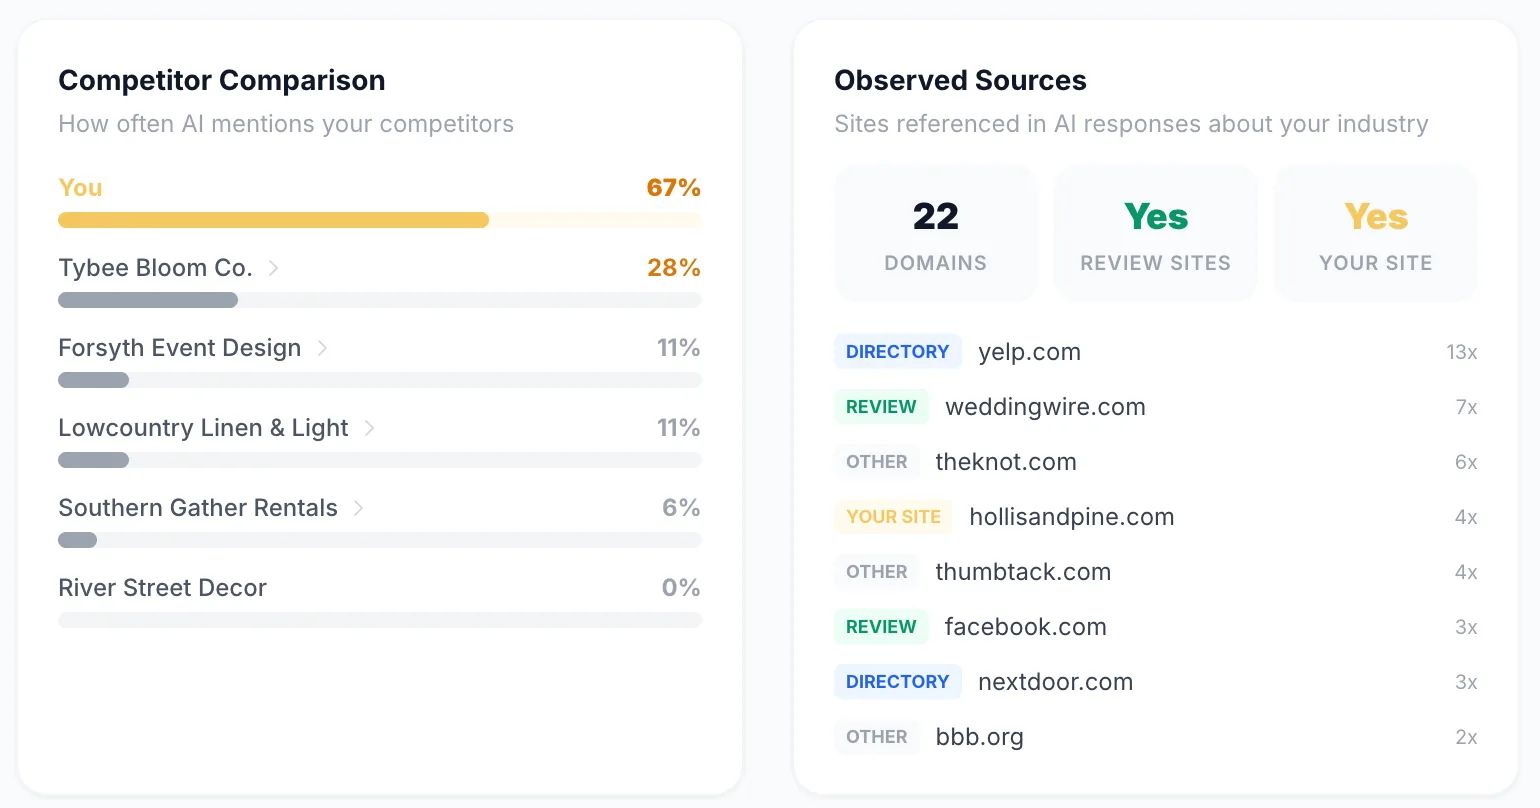
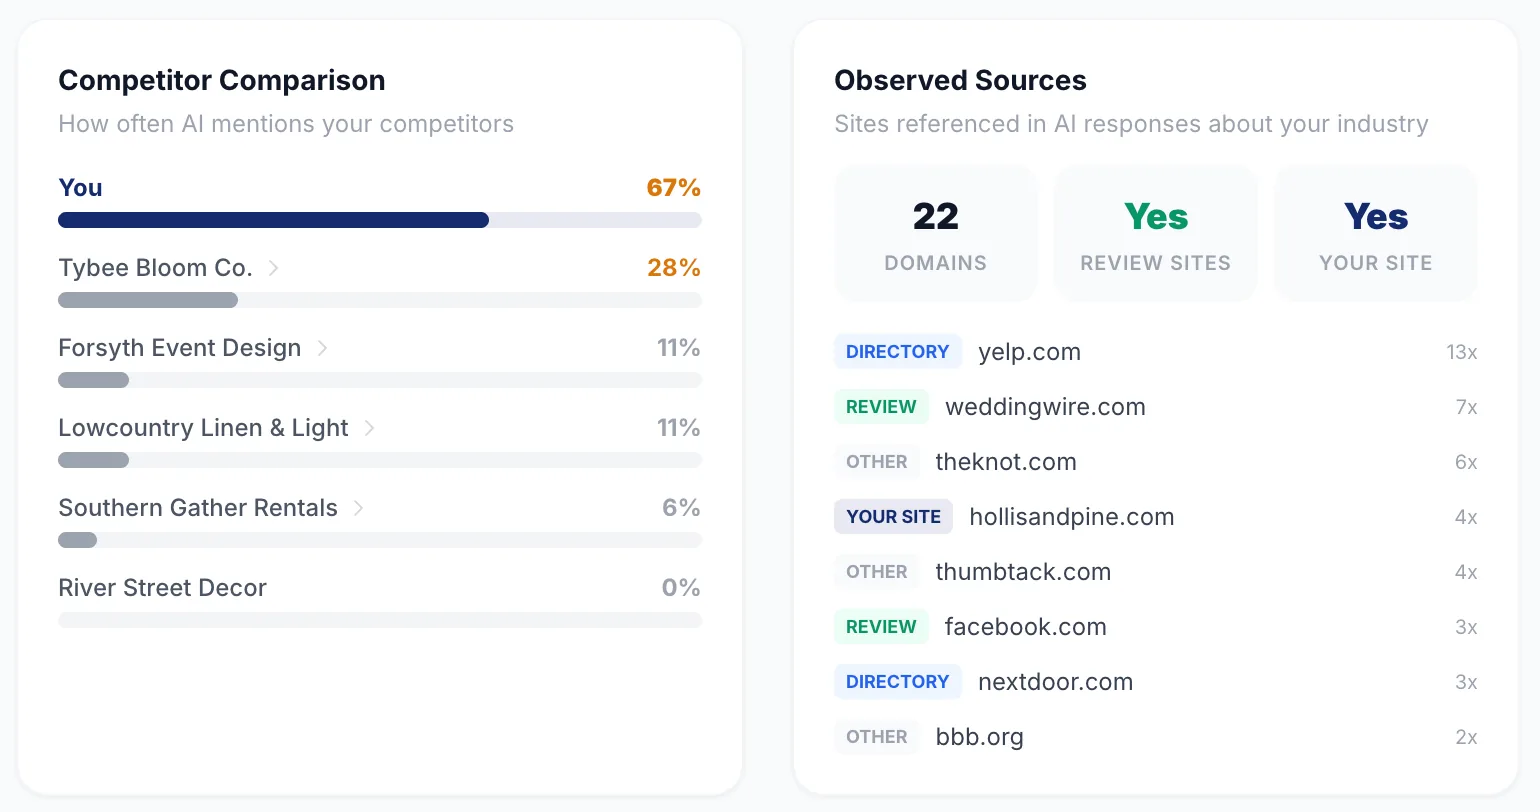
Home: Inside the dashboard becomes a five-feature tour with same-size screenshots
Review requests, reviews and replies, AI visibility, Google results and overview,
each with a short how-it-works blurb and link. All screenshots 2920x1520 in a
fixed frame, recaptured with the new app palette. Feature pages share the images.

Claude-Session: https://claude.ai/code/session_01Xy39hunnq1utVLDeTEy83P

diff --git a/src/raw/index.html b/src/raw/index.html
@@ -246,19 +246,68 @@ height="0" width="0" style="display:none;visibility:hidden"></iframe></noscript>
     <div class="app-demo" data-app-tabs>
       <div class="app-demo-head">
         <span class="eyebrow">Inside the dashboard</span>
-        <h3>And this is where you check on it</h3>
-        <p>Your rating, every review and reply, and where ChatGPT, Gemini and Perplexity name you. Open it whenever you like. The monthly email covers the rest.</p>
+        <h3>Every part of it, one login</h3>
+        <p>Here is what each piece does and what you see when it is running. Pick one to take a look.</p>
       </div>
-      <div class="app-tabs" role="tablist" aria-label="Dashboard screens">
-        <button class="app-tab" type="button" role="tab" id="apt-ov" aria-controls="app-ov" aria-selected="true">Overview</button>
-        <button class="app-tab" type="button" role="tab" id="apt-ai" aria-controls="app-ai" aria-selected="false" tabindex="-1">AI visibility</button>
-        <button class="app-tab" type="button" role="tab" id="apt-rv" aria-controls="app-rv" aria-selected="false" tabindex="-1">Reviews and replies</button>
+      <div class="app-tabs" role="tablist" aria-label="Dashboard features">
+        <button class="app-tab" type="button" role="tab" id="tt-requests" aria-controls="tp-requests" aria-selected="true">Review requests</button>
+        <button class="app-tab" type="button" role="tab" id="tt-reviews" aria-controls="tp-reviews" aria-selected="false" tabindex="-1">Reviews and replies</button>
+        <button class="app-tab" type="button" role="tab" id="tt-ai" aria-controls="tp-ai" aria-selected="false" tabindex="-1">AI visibility</button>
+        <button class="app-tab" type="button" role="tab" id="tt-google" aria-controls="tp-google" aria-selected="false" tabindex="-1">Google results</button>
+        <button class="app-tab" type="button" role="tab" id="tt-overview" aria-controls="tp-overview" aria-selected="false" tabindex="-1">Overview</button>
       </div>
-      <figure class="app-shot">
-        <div role="tabpanel" id="app-ov" aria-labelledby="apt-ov"><div class="app-bar" aria-hidden="true"><i></i><i></i><i></i><span class="app-url">app.vouchtrack.com/dashboard</span></div><img src="/assets/app/dashboard-overview-1400.webp" srcset="/assets/app/dashboard-overview-1400.webp 1400w, /assets/app/dashboard-overview-2200.webp 2200w" sizes="(min-width: 1200px) 1160px, 100vw" width="1400" height="613" alt="VouchTrack dashboard for a sample events business in Savannah: 4.8 star rating, 612 reviews, 98.6% response rate, 1.2 hour average response time" loading="lazy" decoding="async"></div>
-        <div role="tabpanel" id="app-ai" aria-labelledby="apt-ai" hidden><div class="app-bar" aria-hidden="true"><i></i><i></i><i></i><span class="app-url">app.vouchtrack.com/search-ai</span></div><img src="/assets/app/search-ai-1400.webp" srcset="/assets/app/search-ai-1400.webp 1400w, /assets/app/search-ai-2200.webp 2200w" sizes="(min-width: 1200px) 1160px, 100vw" width="1400" height="759" alt="Search AI screen: visibility score 81 out of 100, named in 12 of 18 sampled questions, Gemini 83%, ChatGPT 67%, Perplexity 50%" loading="lazy" decoding="async"></div>
-        <div role="tabpanel" id="app-rv" aria-labelledby="apt-rv" hidden><div class="app-bar" aria-hidden="true"><i></i><i></i><i></i><span class="app-url">app.vouchtrack.com/reviews</span></div><img src="/assets/app/reviews-inbox-1400.webp" srcset="/assets/app/reviews-inbox-1400.webp 1400w, /assets/app/reviews-inbox-2200.webp 2200w" sizes="(min-width: 1200px) 1160px, 100vw" width="1400" height="759" alt="Reviews screen: every review with the reply posted underneath, plus filters for flagged, needs response and negative reviews" loading="lazy" decoding="async"></div>
-      </figure>
+      <div class="tour-stage">
+      <div class="tour-panel" role="tabpanel" id="tp-requests" aria-labelledby="tt-requests">
+        <div class="tour-copy">
+          <span class="eyebrow">Capture experiences</span>
+          <h4>Every customer gets asked</h4>
+          <p>Connect your booking or invoicing tool once. After each visit, a text, email or WhatsApp goes out in your name with a one-tap link to your Google review box.</p>
+          <ul class="checklist"><li>QR codes for the counter and the receipt</li><li>Unhappy customers go to a private feedback flow first</li><li>See which channel brings in the most reviews</li></ul>
+          <a class="tour-link" href="/features/review-requests">How review requests work &rarr;</a>
+        </div>
+        <figure class="app-shot tour-shot"><div class="app-bar" aria-hidden="true"><i></i><i></i><i></i><span class="app-url">app.vouchtrack.com/request-reviews</span></div><img class="tour-img" src="/assets/app/tour-requests-1100.webp" srcset="/assets/app/tour-requests-1100.webp 1100w, /assets/app/tour-requests-1900.webp 1900w" sizes="(min-width: 1100px) 760px, 100vw" width="1100" height="573" alt="Review requests screen for a sample events business: 248 requests sent this month, 121 clicks to review sites, 48.8% success rate and 7 private messages" loading="lazy" decoding="async"></figure>
+      </div>
+      <div class="tour-panel" role="tabpanel" id="tp-reviews" aria-labelledby="tt-reviews" hidden>
+        <div class="tour-copy">
+          <span class="eyebrow">Build authority</span>
+          <h4>One inbox. Every review answered.</h4>
+          <p>Google, Facebook, Yelp and 85+ more sites land in one list. Every reply is AI-drafted, human-approved, and posted within hours.</p>
+          <ul class="checklist"><li>Replies mention what the customer actually wrote</li><li>Filter by site, rating or anything still waiting</li><li>Negative reviews flagged the moment they land</li></ul>
+          <a class="tour-link" href="/features/review-inbox">The review inbox &rarr;</a>
+        </div>
+        <figure class="app-shot tour-shot"><div class="app-bar" aria-hidden="true"><i></i><i></i><i></i><span class="app-url">app.vouchtrack.com/reviews</span></div><img class="tour-img" src="/assets/app/tour-reviews-1100.webp" srcset="/assets/app/tour-reviews-1100.webp 1100w, /assets/app/tour-reviews-1900.webp 1900w" sizes="(min-width: 1100px) 760px, 100vw" width="1100" height="573" alt="Reviews screen: a five-star Google review with the owner’s reply underneath, plus filters for flagged, needs response and negative reviews" loading="lazy" decoding="async"></figure>
+      </div>
+      <div class="tour-panel" role="tabpanel" id="tp-ai" aria-labelledby="tt-ai" hidden>
+        <div class="tour-copy">
+          <span class="eyebrow">Increase visibility</span>
+          <h4>See when AI assistants name you</h4>
+          <p>Every week we ask ChatGPT, Gemini and Perplexity the questions your customers ask, then show how often you get named, who gets named instead, and what to fix first.</p>
+          <ul class="checklist"><li>A score for each assistant</li><li>The competitors named in your place</li><li>A ranked list of what to fix next</li></ul>
+          <a class="tour-link" href="/features/ai-search">AI visibility tracking &rarr;</a>
+        </div>
+        <figure class="app-shot tour-shot"><div class="app-bar" aria-hidden="true"><i></i><i></i><i></i><span class="app-url">app.vouchtrack.com/search-ai</span></div><img class="tour-img" src="/assets/app/tour-ai-1100.webp" srcset="/assets/app/tour-ai-1100.webp 1100w, /assets/app/tour-ai-1900.webp 1900w" sizes="(min-width: 1100px) 760px, 100vw" width="1100" height="573" alt="Search AI screen: visibility score 81 out of 100, named in 12 of 18 sampled questions, Gemini 83%, ChatGPT 67%, Perplexity 50%" loading="lazy" decoding="async"></figure>
+      </div>
+      <div class="tour-panel" role="tabpanel" id="tp-google" aria-labelledby="tt-google" hidden>
+        <div class="tour-copy">
+          <span class="eyebrow">Increase visibility</span>
+          <h4>What your Google profile brings in</h4>
+          <p>Calls, direction requests, website clicks and profile views, pulled from Google every month, plus the exact searches people typed to find you.</p>
+          <ul class="checklist"><li>Brand searches vs. new customers finding you</li><li>Change against last month on every number</li><li>Pairs with the Google Maps rank map</li></ul>
+          <a class="tour-link" href="/features/insights-rankings">Rank tracking and insights &rarr;</a>
+        </div>
+        <figure class="app-shot tour-shot"><div class="app-bar" aria-hidden="true"><i></i><i></i><i></i><span class="app-url">app.vouchtrack.com/dashboard</span></div><img class="tour-img" src="/assets/app/tour-google-1100.webp" srcset="/assets/app/tour-google-1100.webp 1100w, /assets/app/tour-google-1900.webp 1900w" sizes="(min-width: 1100px) 760px, 100vw" width="1100" height="573" alt="Google Business Profile results: 41,820 impressions, 1,186 calls, 2,304 direction requests and 1,472 website clicks, with the top search terms people used" loading="lazy" decoding="async"></figure>
+      </div>
+      <div class="tour-panel" role="tabpanel" id="tp-overview" aria-labelledby="tt-overview" hidden>
+        <div class="tour-copy">
+          <span class="eyebrow">Your dashboard</span>
+          <h4>Everything at a glance</h4>
+          <p>Your rating, review count, response rate and reply speed on one screen. A monthly email sums it all up in two minutes.</p>
+          <ul class="checklist"><li>Every location under one login</li><li>Share it with your team in one click</li><li>Open it when you want. The email covers the rest.</li></ul>
+          <a class="tour-link" href="/how-it-works">How it all fits together &rarr;</a>
+        </div>
+        <figure class="app-shot tour-shot"><div class="app-bar" aria-hidden="true"><i></i><i></i><i></i><span class="app-url">app.vouchtrack.com/dashboard</span></div><img class="tour-img" src="/assets/app/tour-overview-1100.webp" srcset="/assets/app/tour-overview-1100.webp 1100w, /assets/app/tour-overview-1900.webp 1900w" sizes="(min-width: 1100px) 760px, 100vw" width="1100" height="573" alt="Dashboard overview: 4.8 star rating, 612 reviews, 38.4% invite conversion, 98.6% response rate and a 1.2 hour average response time" loading="lazy" decoding="async"></figure>
+      </div>
+      </div>
       <p class="app-note">Sample account. The business, reviewer names and numbers are illustrative.</p>
     </div>
 

diff --git a/src/raw/features/ai-search.html b/src/raw/features/ai-search.html
@@ -88,7 +88,7 @@ height="0" width="0" style="display:none;visibility:hidden"></iframe></noscript>
     </div>
     <div class="app-fig">
       <p class="app-fig-cap"><b>What tracking looks like once you're set up.</b> Every week we ask the assistants the questions your customers ask, then show who got named and how often.</p>
-      <figure class="app-shot"><div class="app-bar" aria-hidden="true"><i></i><i></i><i></i><span class="app-url">app.vouchtrack.com/search-ai</span></div><img src="/assets/app/search-ai-1400.webp" srcset="/assets/app/search-ai-1400.webp 1400w, /assets/app/search-ai-2200.webp 2200w" sizes="(min-width: 1200px) 1160px, 100vw" width="1400" height="759" alt="Search AI screen: visibility score 81 out of 100, named in 12 of 18 sampled questions, Gemini 83%, ChatGPT 67%, Perplexity 50%" loading="lazy" decoding="async"></figure>
+      <figure class="app-shot"><div class="app-bar" aria-hidden="true"><i></i><i></i><i></i><span class="app-url">app.vouchtrack.com/search-ai</span></div><img src="/assets/app/tour-ai-1100.webp" srcset="/assets/app/tour-ai-1100.webp 1100w, /assets/app/tour-ai-1900.webp 1900w" sizes="(min-width: 1200px) 1160px, 100vw" width="1100" height="573" alt="Search AI screen: visibility score 81 out of 100, named in 12 of 18 sampled questions, Gemini 83%, ChatGPT 67%, Perplexity 50%" loading="lazy" decoding="async"></figure>
       <p class="app-note">Sample account. The business, reviewer names and numbers are illustrative.</p>
     </div>
   </div>
@@ -121,7 +121,7 @@ height="0" width="0" style="display:none;visibility:hidden"></iframe></noscript>
         <p>Your dashboard lists the sites ChatGPT, Gemini and Perplexity cite when they answer questions about your trade, and how often they name you next to the competition. That tells you exactly where new reviews will count the most.</p>
       </div>
       <div>
-        <figure class="app-shot app-crop"><img src="/assets/app/search-ai-sources-800.webp" srcset="/assets/app/search-ai-sources-800.webp 800w, /assets/app/search-ai-sources-1540.webp 1540w" sizes="(min-width: 900px) 560px, 100vw" width="800" height="420" alt="How often AI names you next to local competitors, and the sites the assistants cite most for your category, such as Yelp, WeddingWire and The Knot" loading="lazy" decoding="async"></figure>
+        <figure class="app-shot app-crop"><img src="/assets/app/search-ai-sources-800.webp" srcset="/assets/app/search-ai-sources-800.webp 800w, /assets/app/search-ai-sources-1540.webp 1540w" sizes="(min-width: 900px) 560px, 100vw" width="800" height="422" alt="How often AI names you next to local competitors, and the sites the assistants cite most for your category, such as Yelp, WeddingWire and The Knot" loading="lazy" decoding="async"></figure>
         <p class="app-note">Sample account. The business, reviewer names and numbers are illustrative.</p>
       </div>
     </div>

diff --git a/src/raw/features/insights-rankings.html b/src/raw/features/insights-rankings.html
@@ -103,7 +103,7 @@ height="0" width="0" style="display:none;visibility:hidden"></iframe></noscript>
     </div>
     <div class="app-fig">
       <p class="app-fig-cap"><b>The dashboard, if you want it.</b> Rating, review count, response rate and how fast replies go out, plus what your Google profile brought in this month.</p>
-      <figure class="app-shot"><div class="app-bar" aria-hidden="true"><i></i><i></i><i></i><span class="app-url">app.vouchtrack.com/dashboard</span></div><img src="/assets/app/dashboard-overview-1400.webp" srcset="/assets/app/dashboard-overview-1400.webp 1400w, /assets/app/dashboard-overview-2200.webp 2200w" sizes="(min-width: 1200px) 1160px, 100vw" width="1400" height="613" alt="VouchTrack dashboard for a sample events business in Savannah: 4.8 star rating, 612 reviews, 98.6% response rate, 1.2 hour average response time" loading="lazy" decoding="async"></figure>
+      <figure class="app-shot"><div class="app-bar" aria-hidden="true"><i></i><i></i><i></i><span class="app-url">app.vouchtrack.com/dashboard</span></div><img src="/assets/app/tour-overview-1100.webp" srcset="/assets/app/tour-overview-1100.webp 1100w, /assets/app/tour-overview-1900.webp 1900w" sizes="(min-width: 1200px) 1160px, 100vw" width="1100" height="573" alt="VouchTrack dashboard for a sample events business in Savannah: 4.8 star rating, 612 reviews, 98.6% response rate, 1.2 hour average response time" loading="lazy" decoding="async"></figure>
       <figure class="app-shot app-crop" style="margin-top:16px;"><img src="/assets/app/gbp-insights-1100.webp" srcset="/assets/app/gbp-insights-1100.webp 1100w, /assets/app/gbp-insights-2300.webp 2300w" sizes="(min-width: 1200px) 1160px, 100vw" width="1100" height="230" alt="Google Business Profile results for the month: 41,820 impressions, 1,186 calls, 2,304 direction requests and 1,472 website clicks, each up on the period before" loading="lazy" decoding="async"></figure>
       <p class="app-note">Sample account. The business, reviewer names and numbers are illustrative.</p>
     </div>

diff --git a/public/styles.css b/public/styles.css
@@ -1735,3 +1735,25 @@ footer.book-foot { color: #D5DCF0; border-top: 0; }
   .ih-photo { max-width: 560px; }
   .ih-img { aspect-ratio: 16 / 10; }
 }
+
+/* Inside the dashboard: feature tour */
+.app-demo .app-tabs { margin-bottom: 28px; }
+.tour-panel { display: grid; grid-template-columns: minmax(0, 0.85fr) minmax(0, 2fr); gap: 44px; align-items: center; }
+.tour-stage { display: grid; }
+.tour-stage > .tour-panel { grid-area: 1 / 1; }
+.tour-stage > .tour-panel[hidden] { display: grid; visibility: hidden; }
+.tour-copy .eyebrow { margin-bottom: 14px; }
+.tour-copy h4 { font-family: var(--display); font-stretch: 75%; font-weight: 800; font-size: clamp(1.6rem, 2.6vw, 2.1rem); line-height: 1.02; color: var(--ink); margin: 0 0 12px; }
+.tour-copy p { margin: 0 0 16px; }
+.tour-copy .checklist { margin: 0 0 18px; }
+.tour-copy .checklist li { font-size: 0.95rem; }
+.tour-link { font-weight: 700; }
+.tour-shot { position: relative; }
+.tour-shot::after { content: ""; position: absolute; left: 0; right: 0; bottom: 0; height: 56px; background: linear-gradient(to bottom, rgba(255, 255, 255, 0), rgba(255, 255, 255, 0.92)); pointer-events: none; }
+.tour-img { display: block; width: 100%; height: auto; aspect-ratio: 2920 / 1520; object-fit: cover; object-position: top left; background: #F8F9FB; }
+@media (max-width: 900px) {
+  .tour-panel { grid-template-columns: 1fr; gap: 24px; }
+  .app-demo .app-tabs { flex-wrap: nowrap; justify-content: flex-start; overflow-x: auto; padding-bottom: 6px; margin-left: -16px; margin-right: -16px; padding-left: 16px; padding-right: 16px; scrollbar-width: none; }
+  .app-demo .app-tabs::-webkit-scrollbar { display: none; }
+  .app-demo .app-tab { flex: none; }
+}

diff --git a/src/raw/features/review-inbox.html b/src/raw/features/review-inbox.html
@@ -75,7 +75,7 @@ height="0" width="0" style="display:none;visibility:hidden"></iframe></noscript>
     </div>
     <div class="app-fig">
       <p class="app-fig-cap"><b>Every review, with the reply right underneath.</b> Filter by site, rating or anything still waiting on an answer.</p>
-      <figure class="app-shot"><div class="app-bar" aria-hidden="true"><i></i><i></i><i></i><span class="app-url">app.vouchtrack.com/reviews</span></div><img src="/assets/app/reviews-inbox-1400.webp" srcset="/assets/app/reviews-inbox-1400.webp 1400w, /assets/app/reviews-inbox-2200.webp 2200w" sizes="(min-width: 1200px) 1160px, 100vw" width="1400" height="759" alt="Reviews screen: every review with the reply posted underneath, plus filters for flagged, needs response and negative reviews" loading="lazy" decoding="async"></figure>
+      <figure class="app-shot"><div class="app-bar" aria-hidden="true"><i></i><i></i><i></i><span class="app-url">app.vouchtrack.com/reviews</span></div><img src="/assets/app/tour-reviews-1100.webp" srcset="/assets/app/tour-reviews-1100.webp 1100w, /assets/app/tour-reviews-1900.webp 1900w" sizes="(min-width: 1200px) 1160px, 100vw" width="1100" height="573" alt="Reviews screen: every review with the reply posted underneath, plus filters for flagged, needs response and negative reviews" loading="lazy" decoding="async"></figure>
       <p class="app-note">Sample account. The business, reviewer names and numbers are illustrative.</p>
     </div>
   </div>

diff --git a/CHANGES.md b/CHANGES.md
@@ -408,3 +408,9 @@ resolve, footers uniform, titles <=66 chars, essentials still contained
 - Industry pages: two-column opening section with the photo on the right (navy border, hard shadow). Stacks under the text on phones.
 - Photo thumbnails on all 21 industry cards on /industries and the six on the home page.
 - Photographers and IDs are listed in the photos commit message. No on-page credits (Oct 26, per Akshay).
+
+## Inside the dashboard: feature tour (Oct 26)
+- Home "Inside the dashboard" is now a five-tab tour: Review requests, Reviews and replies, AI visibility, Google results, Overview. Each tab has the pillar label, a short how-it-works blurb, three points, a link to the feature page and a screenshot.
+- Every screenshot is exactly 2920x1520 (shown in a fixed 2920/1520 frame with a soft fade at the bottom), so nothing jumps between tabs. Panels stack in one grid cell, so the section height stays the same on every tab.
+- New captures from the Mark 1 client view with the new app palette (navy tabs and buttons): review requests analytics and Google profile results with search terms. Search AI, reviews and overview recaptured to match. Same Hollis & Pine sample data, on screen only.
+- Feature pages (AI search, review inbox, insights) now use the same new screenshots; old images removed.
